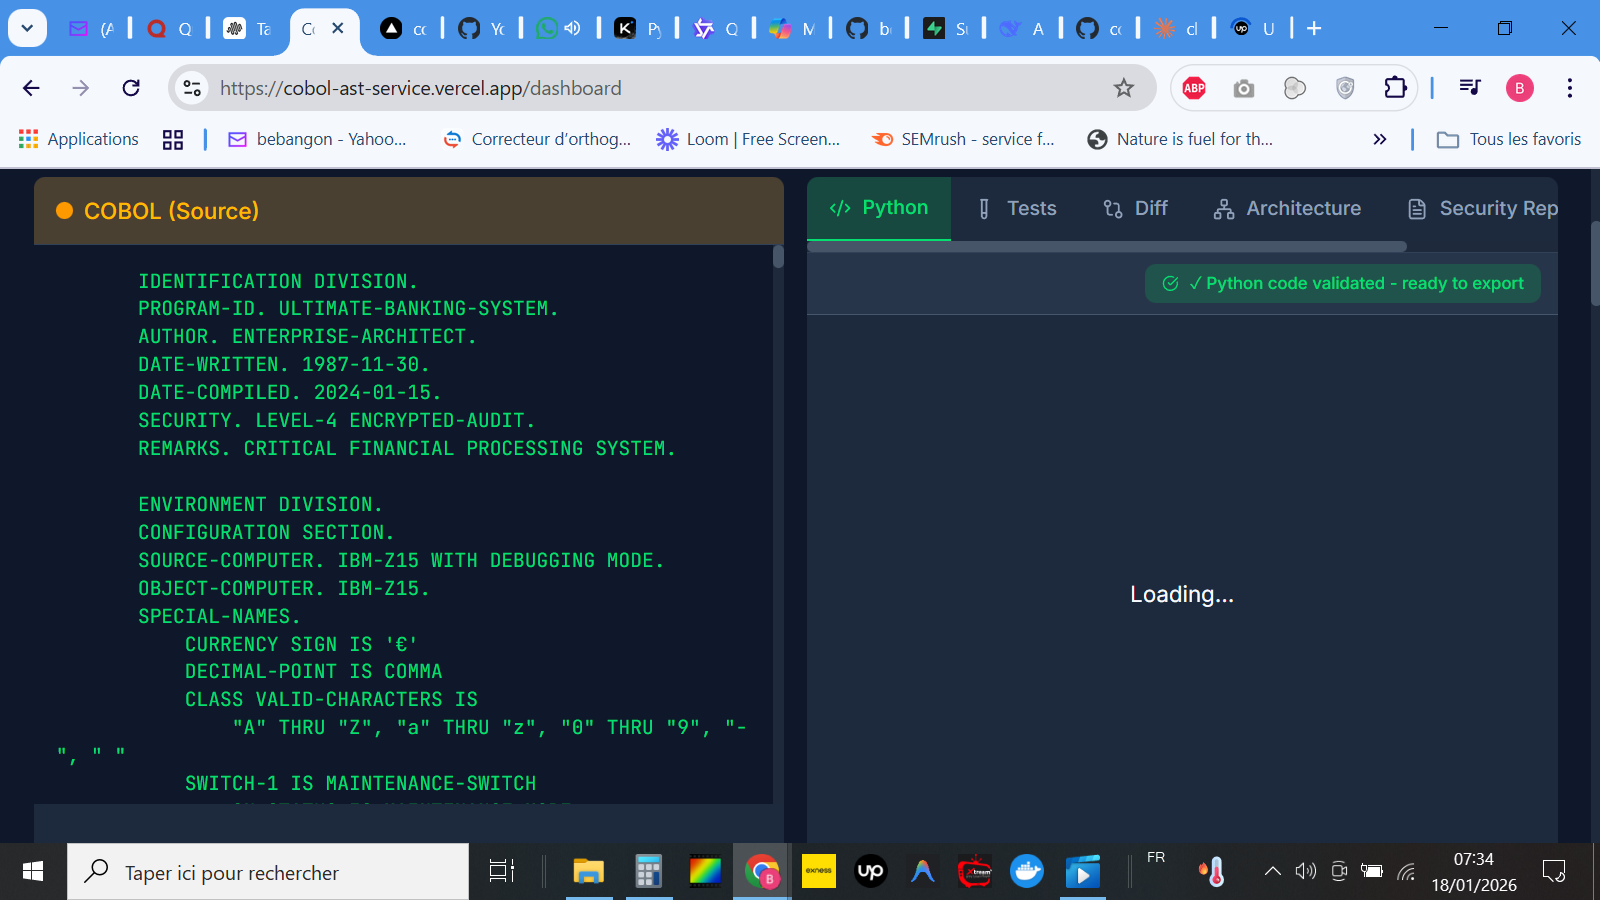
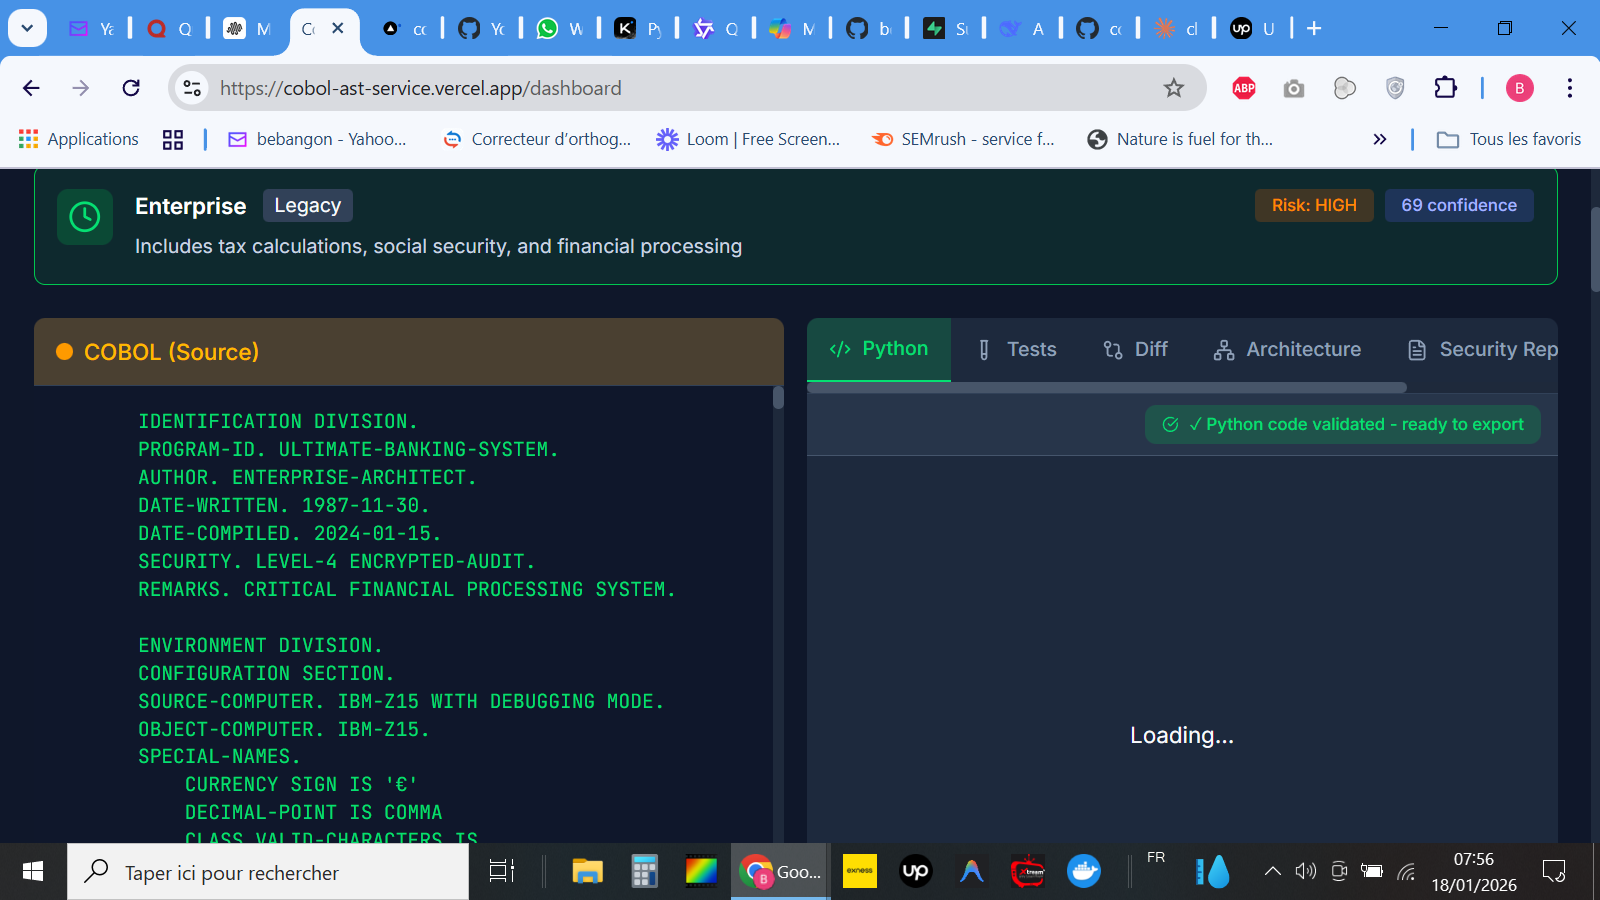
Message 357027560108404 - 1768719475

diff --git a/tests/debug-loading.spec.ts b/tests/debug-loading.spec.ts
@@ -1,0 +1,85 @@
+import { test, expect } from '@playwright/test';
+
+const PROD_URL = 'https://cobol-ast-service.vercel.app/dashboard';
+
+test.describe('Debug Loading Issue', () => {
+  test('Upload COBOL and check Python panel', async ({ page }) => {
+    // Go to production dashboard
+    await page.goto(PROD_URL);
+    await page.waitForLoadState('networkidle');
+    
+    // Wait for page load
+    await page.waitForTimeout(2000);
+    
+    // Take screenshot of initial state
+    await page.screenshot({ path: 'screenshots/debug-01-initial.png', fullPage: true });
+    
+    // Sample COBOL code for testing
+    const testCobol = `       IDENTIFICATION DIVISION.
+       PROGRAM-ID. TEST-PROGRAM.
+       DATA DIVISION.
+       WORKING-STORAGE SECTION.
+       01 WS-NUM PIC 9(5) VALUE 100.
+       01 WS-RESULT PIC 9(5).
+       PROCEDURE DIVISION.
+           MULTIPLY WS-NUM BY 2 GIVING WS-RESULT.
+           DISPLAY WS-RESULT.
+           STOP RUN.`;
+    
+    // Find COBOL input area and fill it
+    const cobolEditor = page.locator('.monaco-editor').first();
+    if (await cobolEditor.isVisible()) {
+      // Monaco editor - click and type
+      await cobolEditor.click();
+      await page.keyboard.press('Control+a');
+      await page.keyboard.type(testCobol, { delay: 5 });
+    }
+    
+    await page.waitForTimeout(1000);
+    await page.screenshot({ path: 'screenshots/debug-02-cobol-loaded.png', fullPage: true });
+    
+    // Click the analyze/refactor button
+    const analyzeBtn = page.locator('button:has-text("Refactor"), button:has-text("Analyser"), button:has-text("Gemini")').first();
+    if (await analyzeBtn.isVisible()) {
+      await analyzeBtn.click();
+      console.log('Clicked analyze button');
+    }
+    
+    // Wait for analysis (up to 30s)
+    await page.waitForTimeout(5000);
+    await page.screenshot({ path: 'screenshots/debug-03-during-analysis.png', fullPage: true });
+    
+    // Wait more
+    await page.waitForTimeout(15000);
+    await page.screenshot({ path: 'screenshots/debug-04-after-analysis.png', fullPage: true });
+    
+    // Check Python tab
+    const pythonTab = page.locator('button:has-text("Python")').first();
+    if (await pythonTab.isVisible()) {
+      await pythonTab.click();
+      await page.waitForTimeout(2000);
+    }
+    
+    await page.screenshot({ path: 'screenshots/debug-05-python-tab.png', fullPage: true });
+    
+    // Check for Loading text
+    const loadingText = page.locator('text=Loading');
+    const isLoadingVisible = await loadingText.isVisible();
+    console.log(`Loading text visible: ${isLoadingVisible}`);
+    
+    // Check for Python code validated badge
+    const validBadge = page.locator('text=Python code validated');
+    const isBadgeVisible = await validBadge.isVisible();
+    console.log(`Valid badge visible: ${isBadgeVisible}`);
+    
+    // Check console errors
+    page.on('console', msg => {
+      if (msg.type() === 'error') {
+        console.log(`Console Error: ${msg.text()}`);
+      }
+    });
+    
+    await page.waitForTimeout(3000);
+    await page.screenshot({ path: 'screenshots/debug-06-final.png', fullPage: true });
+  });
+});
